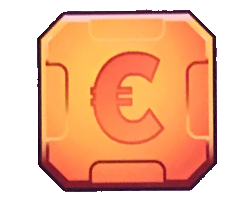
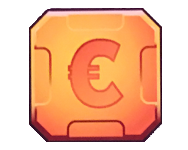
Ajout styles et images pour tablettes

diff --git a/src/styles.css b/src/styles.css
@@ -84,7 +84,6 @@ div.blocRessource {
   width: 32%;
   margin-left: 0.5%;
   margin-right: 0.5%;
-  margin-top: 1%;
   margin-bottom: 1%;
  }
 @media all and (orientation:landscape)
@@ -134,6 +133,7 @@ div.plaque div{
 div#ntBloc {
   float: left;
   border-color: #CCCCCC;
+   margin-bottom: 0.5%;
 }
 div#tourBloc, div#endGameButton {
   float: right;
@@ -202,7 +202,7 @@ div.productionDisplayIcon, div.turnIcon {
     background-image: url('assets/turn.gif');
 }
 div.qteRessource {
-    font-size: 8em;
+    font-size: 11em;
 }
 div#resetButton, div#rewindButton, div#colorButton {
   float: left;
@@ -288,5 +288,23 @@ div#resetButton, div#rewindButton, div#colorButton {
       background-image: url('assets/res-chaleur_small.png');
     }
 }
-@media all and (max-device-width: 1300px) {
+@media all and (max-device-width: 1300px) and (min-device-width: 651px) {
+    div.qteRessource.mcred {
+      background-image: url('assets/res-mcred_medium.png');
+    }
+    div.qteRessource.acier {
+      background-image: url('assets/res-acier_medium.png');
+    }
+    div.qteRessource.titane {
+      background-image: url('assets/res-titane_medium.png');
+    }
+    div.qteRessource.plante {
+      background-image: url('assets/res-plante_medium.png');
+    }
+    div.qteRessource.energie {
+      background-image: url('assets/res-energie_medium.png');
+    }
+    div.qteRessource.chaleur {
+      background-image: url('assets/res-chaleur_medium.png');
+    }
 }

diff --git a/src/app/colorpicker/colorpicker.component.ts b/src/app/colorpicker/colorpicker.component.ts
@@ -45,6 +45,7 @@ export class ColorpickerComponent implements OnInit {
   }
 
   selectColor(color: string) : void {
+     this.selectedColor = color;
      this.colorEmitter.emit(color);
   }
 

diff --git a/src/app/bloc-ressource/bloc-ressource.component.css b/src/app/bloc-ressource/bloc-ressource.component.css
@@ -52,6 +52,7 @@ div.productionRessource {
   margin-left: auto ;
   margin-right: auto ;
   padding-top: 5px;
+  padding-bottom: 5px;
 }
 div.productionDisplay {
     text-align: center;
